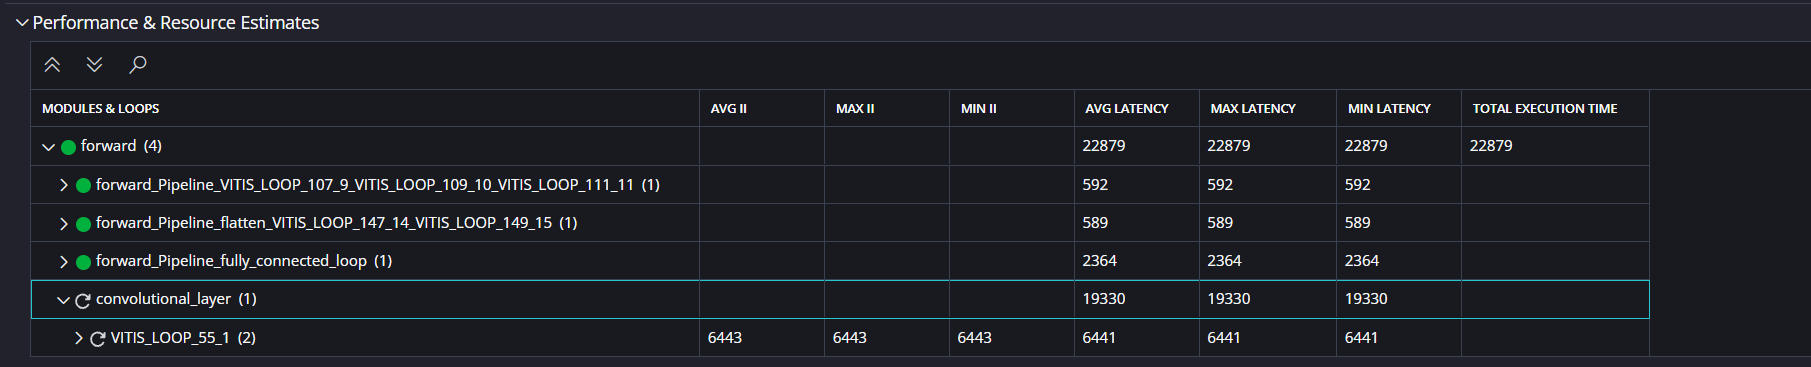
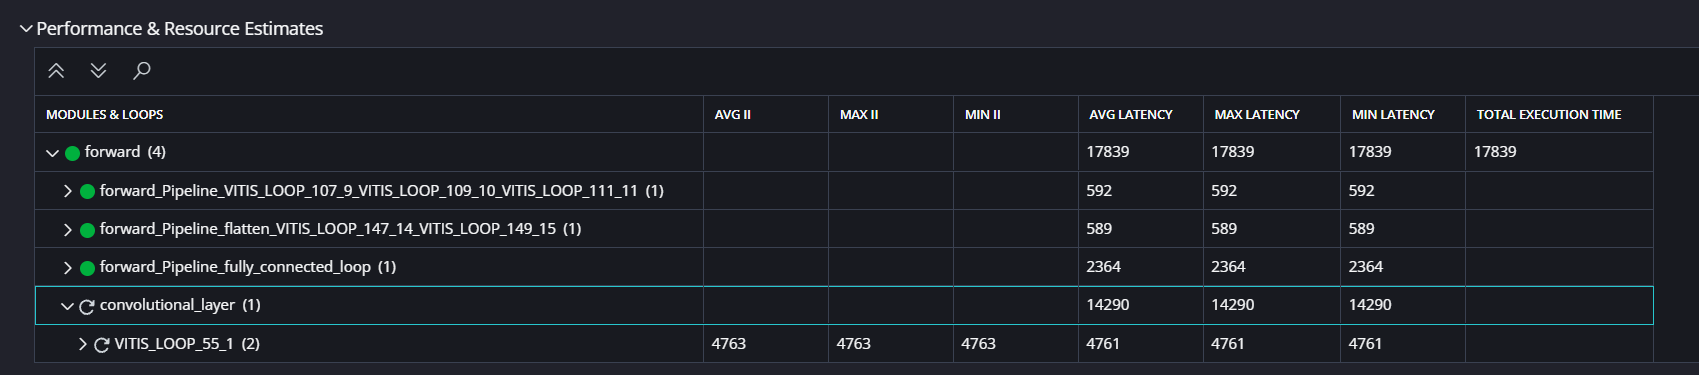
conv rtl cosim comment update

diff --git a/documentation/documentation.tex b/documentation/documentation.tex
@@ -1335,11 +1335,12 @@ The C/RTL simulation was performed to evaluate the performance and resource usag
 The image above summarizes the breakdown of the simulation's key loops and modules. Each hierarchical level of the design is analyzed for critical factors affecting the throughput and latency:
 
 \begin{itemize}
-    \item The \texttt{forward} function is the top-level module, with a latency of 22,879 clock cycles and a consistent initiation interval (II) of 1.
-    \item Submodules within the \texttt{forward} function, such as \texttt{Pipeline\_flatten} and \texttt{Pipeline\_fully\_connected\_loop}, achieve low latency values (592 and 2,364 cycles, respectively) due to effective loop unrolling and partitioning strategies.
-    \item The \texttt{convolutional\_layer} function exhibits a latency of 19,330 cycles, with an II of 1 for its critical loop. This highlights the successful application of optimization techniques, such as array partitioning, ensuring maximum utilization of processing resources.
-    \item The \texttt{VITIS\_LOOP\_55\_1} loop, part of the convolutional layer, demonstrates a significant latency of 6,443 cycles, as it handles the critical computations of the kernel convolution. This indicates room for further optimization in kernel execution.
+    \item The \texttt{forward} function is the top-level module, with a latency of \textbf{17,839 clock cycles}. This reflects the efficient design of the top-level module.
+    \item Submodules within the \texttt{forward} function, such as \texttt{Pipeline\_flatten} and \texttt{Pipeline\_fully\_connected\_loop}, achieve low latency values (\textbf{592 cycles} and \textbf{2,364 cycles}, respectively) due to effective loop unrolling and partitioning strategies.
+    \item The \texttt{convolutional\_layer} function exhibits a latency of \textbf{14,290 cycles}, showcasing its role as the most computationally intensive module in the hierarchy. This highlights the successful application of optimization techniques, such as array partitioning, ensuring maximum utilization of processing resources.
+    \item The \texttt{VITIS\_LOOP\_55\_1} loop, part of the \texttt{convolutional\_layer}, demonstrates a significant latency of \textbf{4,763 cycles}, as it handles the critical computations of the kernel convolution. This indicates room for further optimization in kernel execution.
 \end{itemize}
+
 
 \paragraph{Packaging}
 Regarding the Packaging section, there is not much to report, as the Vitis IDE does not generate a detailed report for this stage. However, it can be inferred that the packaging process was completed successfully, ensuring that the ConvNet design is ready for integration into larger FPGA-based systems.
